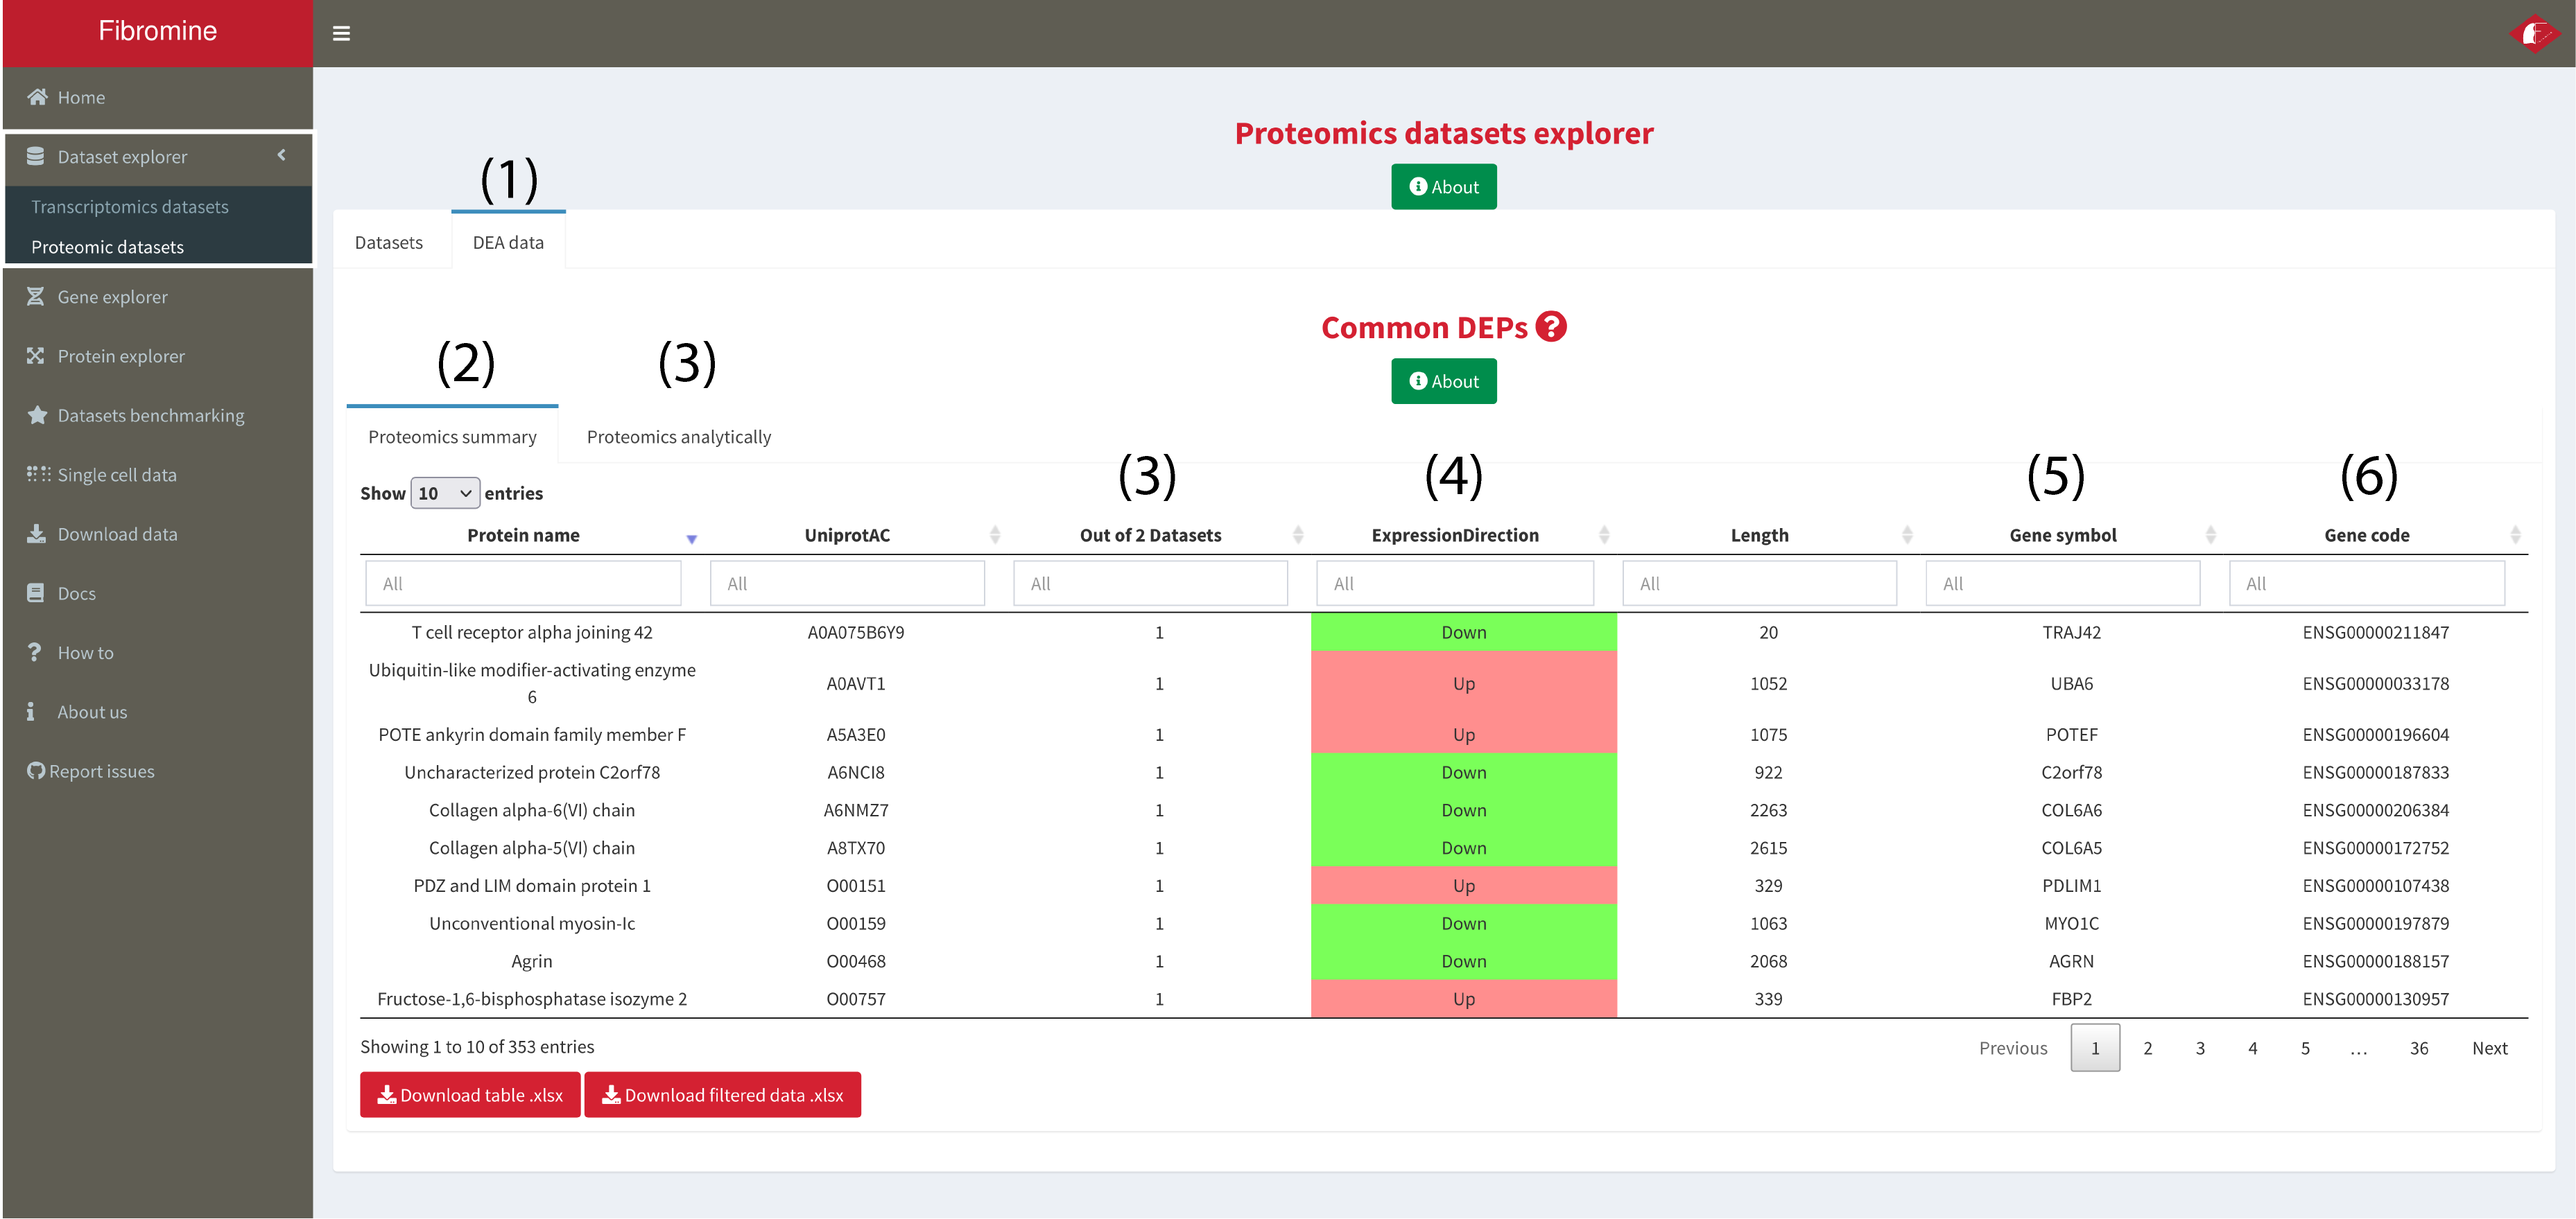
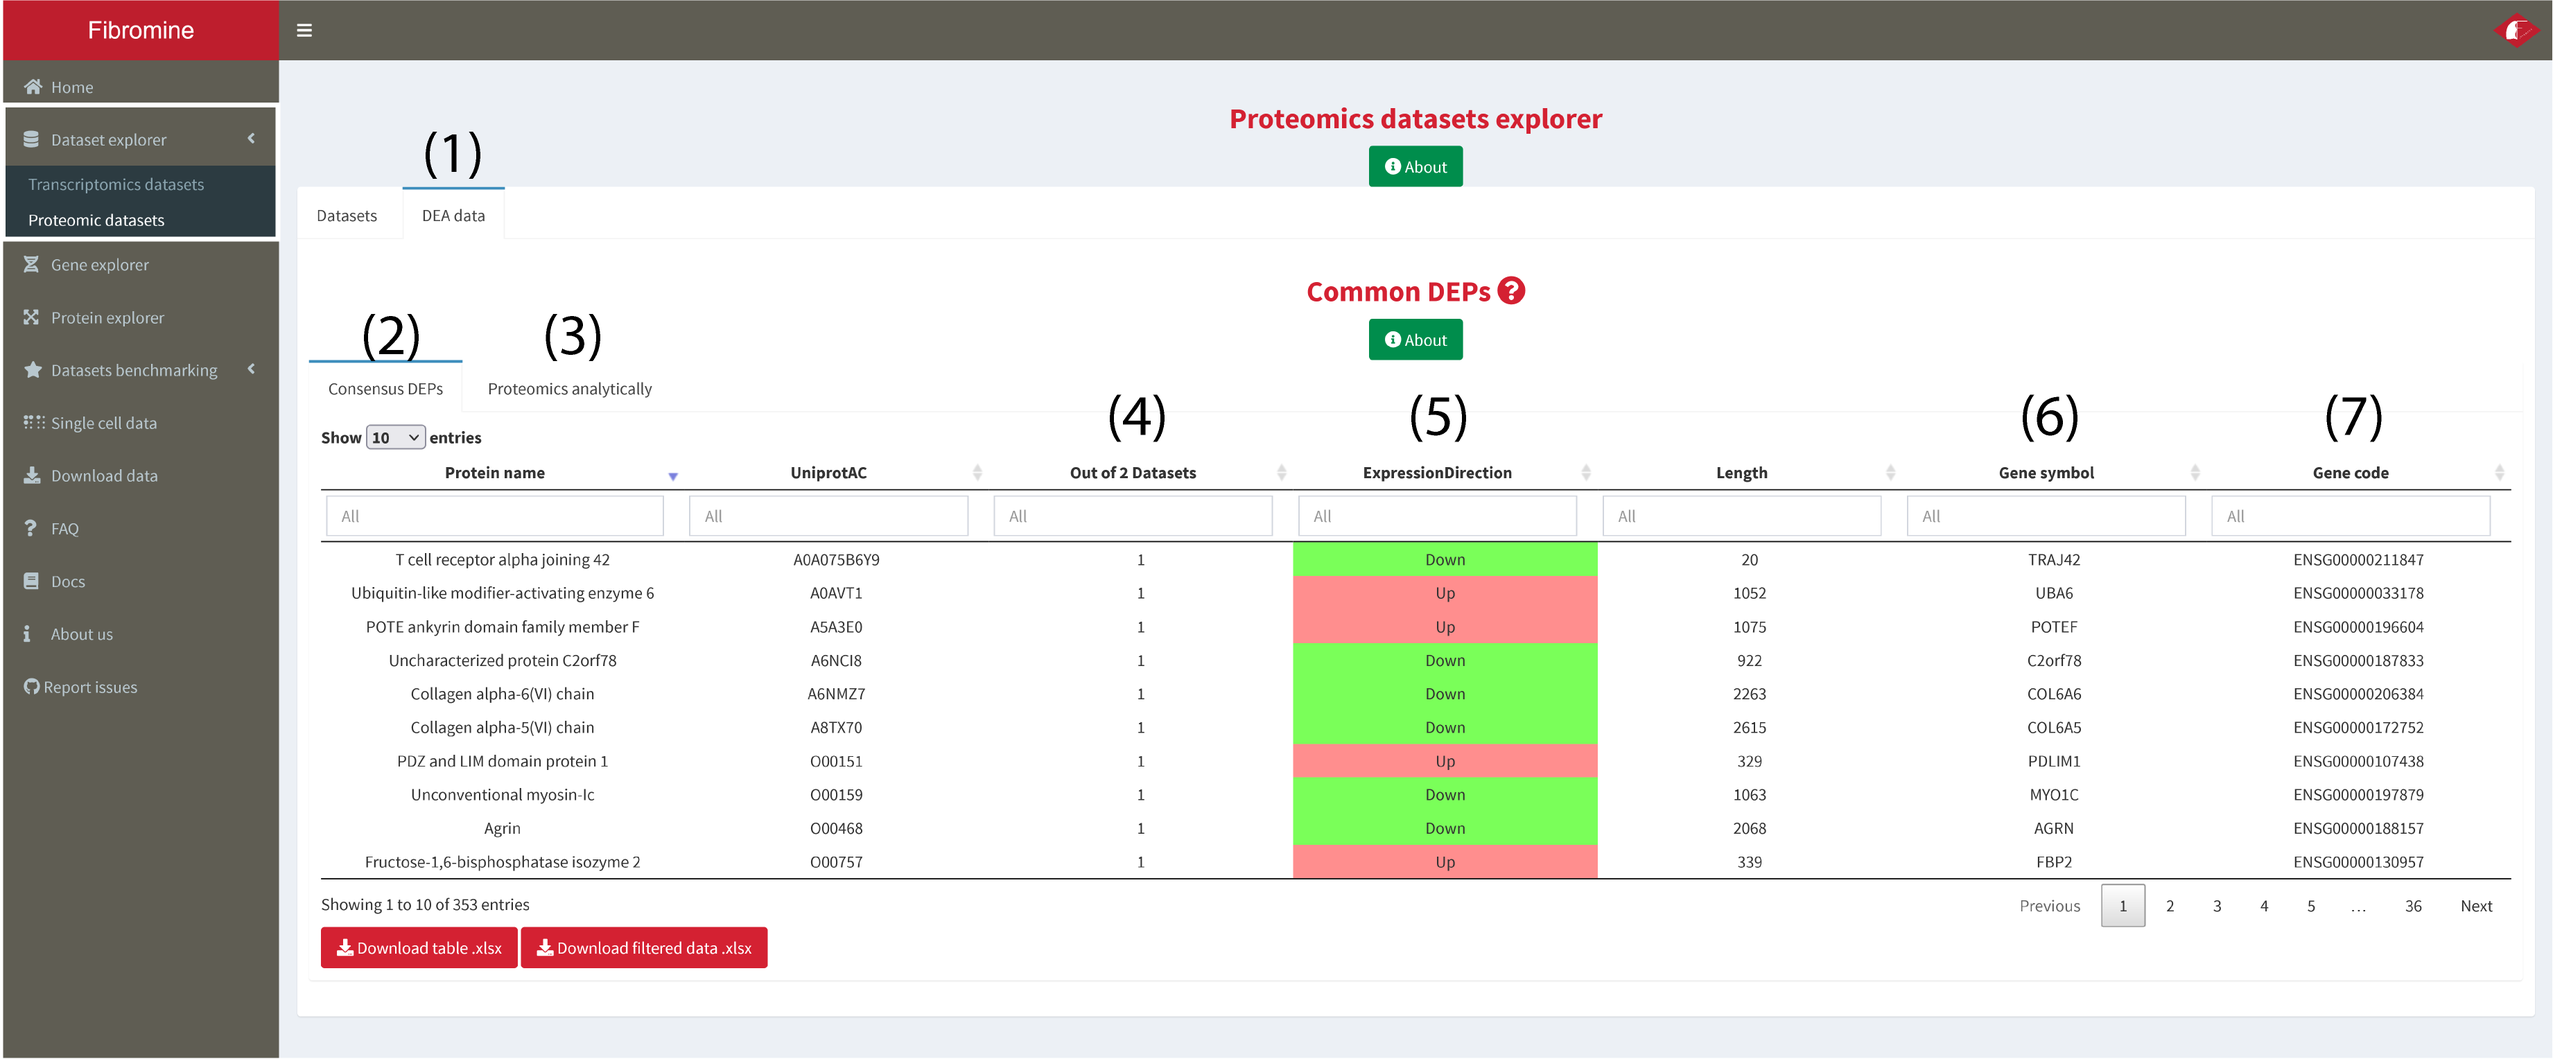
FAQ screenshots updated; load speeded

diff --git a/www/faq/faqC.md b/www/faq/faqC.md
@@ -1,15 +1,15 @@
 1. Go to **Dataset explorer --> Proteomic datasets --> Datasets tab** and **choose** (via clicking) the dataset/comparison of interest from the displayed table as shown below. To begin analysis **press the _Search_ button (1)** and you will be redirected to the **results tab (3)**. To **reset** analysis input it is recommended to **reset** parameters via the **homonym button (2)**. *Note: Every column of the table can be dynamically filtered.* 
 
-	<a href= "faqScreenshots/datasetExpl10.png" target="_blank" rel='noopener noreferrer'> 
+	<a href= "faq/faqScreenshots/datasetExpl10.png" target="_blank" rel='noopener noreferrer'> 
 		<img src= "./faqScreenshots/datasetExpl10.png" alt="image" style="width:800px;height:400px" class="center">
 	</a>
 
-2. If more than one datasets have been selected then consensus differentially expressed proteins are presented at the **Proteomics summary** tab **(2)**. In the case of a single dataset interrogation the aforementioned tab displays the same data presented at the **Proteomics analytically** tab **(3)**, namely all the DE proteins of the queried datasets. **Out of ... Datasets (3)** column enables a better control on the reported differentially expressed features just like in the transcriptomic datasets, while **ExpressionDirection (4)** column holds the consensus direction of deregulation. Columns **(5-6)** host data regarding the **genes coding** the queried proteins.
+2. If more than one datasets have been selected then consensus differentially expressed proteins are presented at the **Proteomics summary** tab **(2)**. In the case of a single dataset interrogation the aforementioned tab displays the same data presented at the **Proteomics analytically** tab **(3)**, namely all the DE proteins of the queried datasets. **Out of ... Datasets (4)** column enables a better control on the reported differentially expressed features just like in the transcriptomic datasets, while **ExpressionDirection (5)** column holds the consensus direction of deregulation. Columns **(6-7)** host data regarding the **genes coding** the queried proteins.
 
-	<a href= "faqScreenshots/datasetExpl11.png" target="_blank" rel='noopener noreferrer'> 
+	<a href= "faq/faqScreenshots/datasetExpl11.png" target="_blank" rel='noopener noreferrer'> 
 		<img src= "./faqScreenshots/datasetExpl11.png" alt="image" style="width:900px;height:500px" class="center"/>
 	</a>
 
-	<a href= "faqScreenshots/datasetExpl12.png" target="_blank" rel='noopener noreferrer'> 
+	<a href= "faq/faqScreenshots/datasetExpl12.png" target="_blank" rel='noopener noreferrer'> 
 		<img src= "./faqScreenshots/datasetExpl12.png" alt="image" style="width:900px;height:500px" class="center"/>
 	</a>

diff --git a/www/faq/faqA.md b/www/faq/faqA.md
@@ -1,6 +1,6 @@
 1. Go to **Dataset explorer --> Transcriptomic datasets --> Datasets tab** and **choose** (via clicking) the dataset/comparison of interest from the displayed table as shown below. To begin integration **press the Search button (1)** and you will be redirected to the **results tab (3)**. To **reset** analysis input it is recommended to **reset** parameters via the **homonym button (2)**. *Note: Every column of the table can be dynamically filtered.*
 
-	<a href= "faqScreenshots/datasetExpl1.png" target="_blank" rel='noopener noreferrer'> 
+	<a href= "faq/faqScreenshots/datasetExpl1.png" target="_blank" rel='noopener noreferrer'> 
 		<img src= "./faqScreenshots/datasetExpl1.png" alt="image" style="width:800px;height:400px" class="center">
 	</a>
 
@@ -10,20 +10,20 @@
 
 	The user can also perform **pathway analysis (8)** using the concensus differentially expressed genes presented in (2). The gene groups used as background for the analysis can be filtered from within the results table **(9)**.
 
-	<a href= "faqScreenshots/datasetExpl2.png" target="_blank" rel='noopener noreferrer'> 
+	<a href= "faq/faqScreenshots/datasetExpl2.png" target="_blank" rel='noopener noreferrer'> 
 		<img src= "./faqScreenshots/datasetExpl2.png" alt="image" style="width:900px;height:650px" class="center"/>
 	</a>
 
-	<a href= "faqScreenshots/datasetExpl3.png" target="_blank" rel='noopener noreferrer'> 
+	<a href= "faq/faqScreenshots/datasetExpl3.png" target="_blank" rel='noopener noreferrer'> 
 		<img src= "./faqScreenshots/datasetExpl3.png" alt="image" style="width:900px;height:650px" class="center"/>
 	</a>
 
-	<a href= "faqScreenshots/datasetExpl4.png" target="_blank" rel='noopener noreferrer'> 
+	<a href= "faq/faqScreenshots/datasetExpl4.png" target="_blank" rel='noopener noreferrer'> 
 		<img src= "./faqScreenshots/datasetExpl4.png" alt="image" style="width:900px;height:650px" class="center"/>
 	</a>
 
 3. **Dataset plots** tab (1) gives to the user the ability to plot an interactive heatmap and volcano plot for any of the datasets queried in step 1. **To plot** any of the two, **select a dataset** from the tab's table (2) and then **press the respective _Plot_ button**, **(3-4)**.
 
-	<a href= "faqScreenshots/datasetExpl5.png" target="_blank" rel='noopener noreferrer'> 
+	<a href= "faq/faqScreenshots/datasetExpl5.png" target="_blank" rel='noopener noreferrer'> 
 		<img src= "./faqScreenshots/datasetExpl5.png" alt="image" style="width:900px;height:670px" class="center"/>
 	</a>

diff --git a/www/faq/faqD.md b/www/faq/faqD.md
@@ -1,14 +1,14 @@
 1. Navigate to the **Gene explorer** and type your gene(-s) of interest into the **search box (1)**. Then select in which of the supported species you want to search using the **radio buttons (2)** below the search box and finally press the **Search button (3)**. The results presented into the following screenshots can be replicated using the **Example button (4)**. For more details please hover over any of the aforementioned buttons/boxes or even press on the **About [...]** buttons of the tab.
 
-	<a href= "faqScreenshots/geneExpl1.png" target="_blank" rel='noopener noreferrer'> 
+	<a href= "faq/faqScreenshots/geneExpl1.png" target="_blank" rel='noopener noreferrer'> 
 		<img src= "./faqScreenshots/geneExpl1.png" alt="image" style="width:800px;height:700px" class="center"/>
 	</a>
 
 2. The results of the respective query are constructed as thus: (i) the **Queried genes (4)** box displays some general information regarding the queried genes, (ii) differential expression statistics for the gene(-s) queried are visualized into the **Expression data tab --> DEG statistics table (6)**, (iii) if there are any differentially expressed proteins (in the proteomics datasets) coded by the queried genes, these are presented at the **Expression data tab --> DEP statistics table (7)** at the bottom of the page, (iv) Gene ontology terms associated with the gene(-s) of interest are presented at the **Gene ontology tab (8)** and finally, (v) any RefSeq related sequences or miRNA-mRNA potential interactions as described in miRDB are presented at the **RefSeq - miRNA tab (9)**. Finally, to map queried genes to the NU-Pulmonary online resource in a species-specific fashion use the **Map to single cell data (5)** feature hyperlinks. 
 	
-	<a href= "faqScreenshots/geneExpl2.png" target="_blank" rel='noopener noreferrer'> 
+	<a href= "faq/faqScreenshots/geneExpl2.png" target="_blank" rel='noopener noreferrer'> 
 		<img src= "./faqScreenshots/geneExpl2.png" alt="image" style="width:900px;height:500px" class="center"/>
 	</a>
-	<a href= "faqScreenshots/geneExpl3.png" target="_blank" rel='noopener noreferrer'> 
+	<a href= "faq/faqScreenshots/geneExpl3.png" target="_blank" rel='noopener noreferrer'> 
 		<img src= "./faqScreenshots/geneExpl3.png" alt="image" style="width:900px;height:500px" class="center"/>
 	</a>

diff --git a/www/faq/faqB.md b/www/faq/faqB.md
@@ -1,6 +1,6 @@
 1. Go to **Dataset explorer --> Transcriptomic datasets --> Datasets tab** and **choose** (via clicking) the dataset/comparison of interest from the displayed table as shown below. To begin integration **press the Search button (1)** and you will be redirected to the **results tab (3)**. To **reset** analysis input it is recommended to **reset** parameters via the **homonym button (2)**. *Note: Every column of the table can be dynamically filtered.*
 
-	<a href= "faqScreenshots/datasetExpl6.png" target="_blank" rel='noopener noreferrer'> 
+	<a href= "faq/faqScreenshots/datasetExpl6.png" target="_blank" rel='noopener noreferrer'> 
 		<img src= "./faqScreenshots/datasetExpl6.png" alt="image" style="width:800px;height:400px" class="center">
 	</a>
 
@@ -10,14 +10,14 @@
 
 	The user can also perform **pathway analysis (8)** using the concensus differentially expressed genes presented in (2). The gene groups used as background for the analysis can be filtered from within the results table **(9)**.
 
-	<a href= "faqScreenshots/datasetExpl7.png" target="_blank" rel='noopener noreferrer'> 
+	<a href= "faq/faqScreenshots/datasetExpl7.png" target="_blank" rel='noopener noreferrer'> 
 		<img src= "./faqScreenshots/datasetExpl7.png" alt="image" style="width:900px;height:650px" class="center"/>
 	</a>
 
-	<a href= "faqScreenshots/datasetExpl8.png" target="_blank" rel='noopener noreferrer'> 
+	<a href= "faq/faqScreenshots/datasetExpl8.png" target="_blank" rel='noopener noreferrer'> 
 		<img src= "./faqScreenshots/datasetExpl8.png" alt="image" style="width:900px;height:650px" class="center"/>
 	</a>
 
-	<a href= "faqScreenshots/datasetExpl9.png" target="_blank" rel='noopener noreferrer'> 
+	<a href= "faq/faqScreenshots/datasetExpl9.png" target="_blank" rel='noopener noreferrer'> 
 		<img src= "./faqScreenshots/datasetExpl9.png" alt="image" style="width:900px;height:650px" class="center"/>
 	</a>

diff --git a/www/faq/faqF.md b/www/faq/faqF.md
@@ -2,18 +2,18 @@
 
 2. Then, move to the **PPI network (1)** tab of the **Protein explorer** and press the **Plot (2)** button. The network should be created within a few seconds.
 
-	<a href= "faqScreenshots/proteinExpl2.png" target="_blank" rel='noopener noreferrer'> 
+	<a href= "faq/faqScreenshots/proteinExpl2.png" target="_blank" rel='noopener noreferrer'> 
 		<img src= "./faqScreenshots/proteinExpl2.png" alt="image" style="width:900px;height:750px" class="center"/>
 	</a>
 
 3. To annotate the network **select tissue (3)** and then **comparison (4)** from the homonym dropdown menus at the right of the network. Finally press the **Annotate (5)** button and wait for a few seconds. In order to annotate the network using data from different conditions, press the **Reset** button next to **Annotate (5)**. To further fine-tune network annotation, change the p-value and fold change thresholds used.
 
-	<a href= "faqScreenshots/proteinExpl3.png" target="_blank" rel='noopener noreferrer'> 
+	<a href= "faq/faqScreenshots/proteinExpl3.png" target="_blank" rel='noopener noreferrer'> 
 		<img src= "./faqScreenshots/proteinExpl3.png" alt="image" style="width:900px;height:500px" class="center"/>
 	</a>
 
 4. For transparency reasons, the data used to annotate the network are presented into the **Data used (6)** tab.
 	
-	<a href= "faqScreenshots/proteinExpl4.png" target="_blank" rel='noopener noreferrer'> 
+	<a href= "faq/faqScreenshots/proteinExpl4.png" target="_blank" rel='noopener noreferrer'> 
 		<img src= "./faqScreenshots/proteinExpl4.png" alt="image" style="width:900px;height:400px" class="center"/>
 	</a>

diff --git a/www/faq/faqG.md b/www/faq/faqG.md
@@ -1,5 +1,5 @@
 1. To download data for any downstream analysis/procedure, navigate to the **Download data** tab and use the **dropdown menus (1-2)** of the page to fetch the normalized data of any transcriptomic dataset, or the differential expression data of any proteomic one.
 
-	<a href= "faqScreenshots/download.png" target="_blank" rel='noopener noreferrer'> 
+	<a href= "faq/faqScreenshots/download.png" target="_blank" rel='noopener noreferrer'> 
 		<img src= "./faqScreenshots/download.png" alt="image" style="width:900px;height:350px" class="center"/>
 	</a>

diff --git a/www/faq/faqE.md b/www/faq/faqE.md
@@ -6,6 +6,6 @@ Navigate to the **Protein explorer**, type the name of the gene coding your prot
 
 *Note: the results presented in the following example screenshots can be recreated by pressing the Example button below the Search button of the explorer.*
 
-<a href= "faqScreenshots/proteinExpl1.png" target="_blank" rel='noopener noreferrer'> 
+<a href= "faq/faqScreenshots/proteinExpl1.png" target="_blank" rel='noopener noreferrer'> 
 	<img src= "./faqScreenshots/proteinExpl1.png" alt="image" style="width:900px;height:350px" class="center"/>
 </a>

diff --git a/www/faq/faqH.md b/www/faq/faqH.md
@@ -1,5 +1,5 @@
 1. To obtain more detailed information about Fibromine, please visit the **Docs** tab. 
 
-	<a href= "faqScreenshots/doc.png" target="_blank" rel='noopener noreferrer'> 
+	<a href= "faq/faqScreenshots/doc.png" target="_blank" rel='noopener noreferrer'> 
 		<img src= "./faqScreenshots/doc.png" alt="image" style="width:900px;height:400px" class="center"/>
 	</a>
